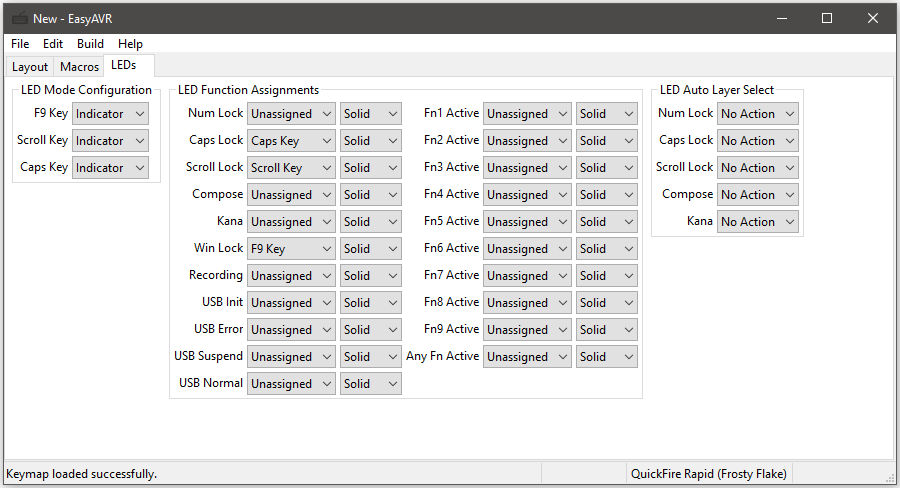
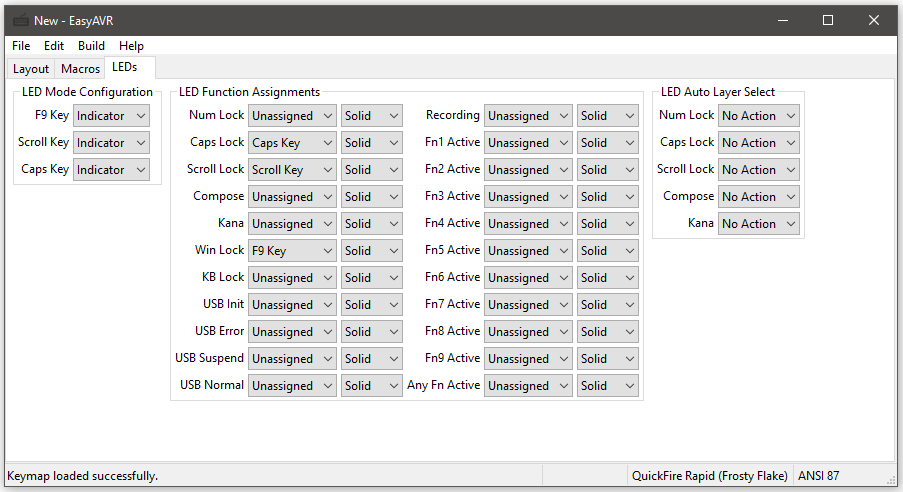
Update documentation for new LED function (Issue #62)

Changed region(s): [[0.0, 0.0, 1.0, 1.0], [0.2178, 0.4918, 0.3111, 0.5225], [0.3733, 0.4918, 0.4044, 0.5225]]

diff --git a/docs/source/leds.rst b/docs/source/leds.rst
@@ -59,6 +59,9 @@ Here is an explanation of all LED functions:
 'Win Lock'
     Lights up when the Windows Key is disabled.
 
+'KB Lock'
+    Lights up when the keyboard is locked.
+
 'Fn1 Active', 'Fn2 Active', ..., 'Fn9 Active'
     Lights up when the corresponding layer is selected.  Locked layers will
     continue to indicate that the layer is active after the Fn key is lifted.
